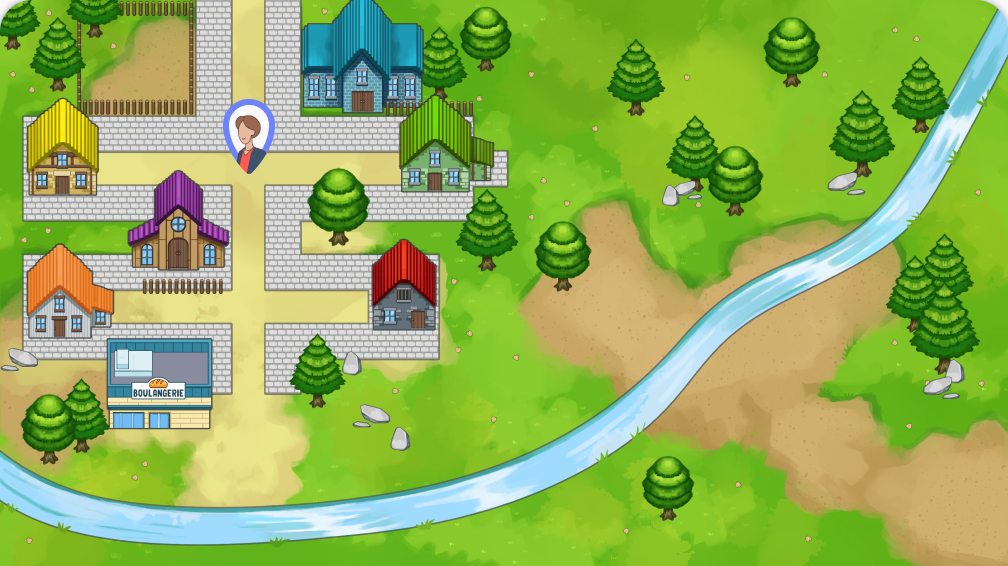
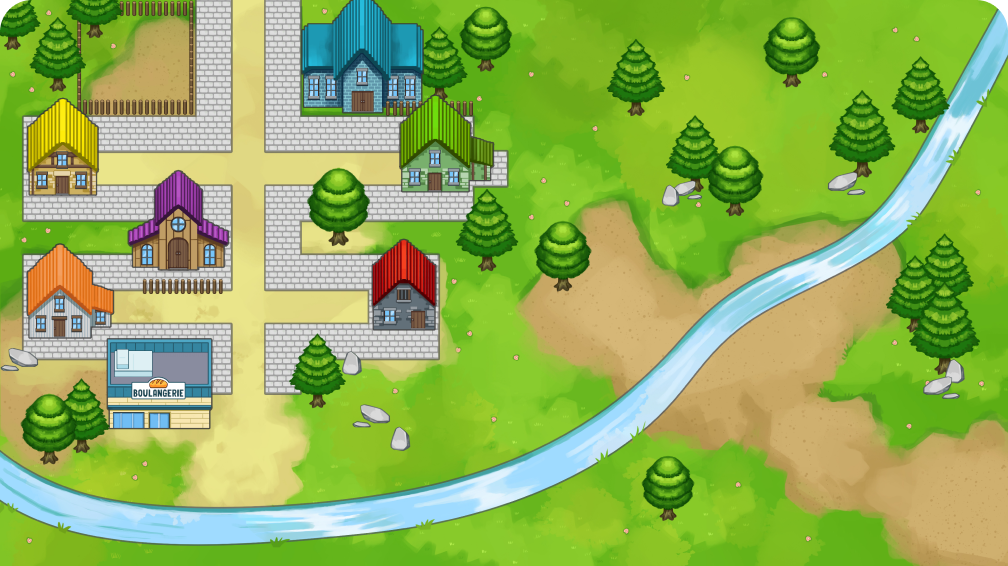
Plan de la ville - Déplacement droite - Animation du personnage Co-authored-by: Marie Leuliette <marie.leuliette@captive.fr>

Changed region(s): [[0.2153, 0.1802, 0.2768, 0.3004], [0.9841, 0.0, 1.0, 0.03], [0.0, 0.0, 0.0308, 0.03]]

diff --git a/tests/situations/plan_de_la_ville/vues/components/deplacement_droite_maison_verte.test.js b/tests/situations/plan_de_la_ville/vues/components/deplacement_droite_maison_verte.test.js
@@ -1,4 +1,4 @@
-import { shallowMount } from '@vue/test-utils';
+import { shallowMount, createLocalVue } from '@vue/test-utils';
 
 import DeplacementDroite from 'plan_de_la_ville/vues/components/deplacement_droite_maison_verte.vue';
 import FlechesClavier from 'commun/vues/components/fleches_clavier';
@@ -7,7 +7,11 @@ describe('La vue Déplacement droite maison verte', function () {
   let wrapper;
 
   beforeEach(function () {
-    wrapper = shallowMount(DeplacementDroite);
+    const localVue = createLocalVue();
+    localVue.prototype.$depotRessources = {
+      personnage: () => { return { src: 'personnage.png' }; }
+    };
+    wrapper = shallowMount(DeplacementDroite, { localVue });
   });
 
   describe('#deplacementValide', function () {
@@ -23,9 +27,25 @@ describe('La vue Déplacement droite maison verte', function () {
     });
   });
 
-  describe('sur ordinateur', function () {
-    it('affiche les touches flèches du clavier', function () {
-      expect(wrapper.findComponent(FlechesClavier).exists()).toBe(true);
+  describe('#deplacePersonnage', function () {
+    it('ajoute la classe deplacement-droite sur le personnage pour le choix déplacement droite', function (done) {
+      expect(wrapper.find('.personnage').classes('deplacement-droite')).toBe(false);
+      wrapper.vm.deplace = true;
+      wrapper.vm.$nextTick(() => {
+        expect(wrapper.find('.personnage').classes('deplacement-droite')).toBe(true);
+        done();
+      });
+    });
+  });
+
+  describe('#vacillePersonnage', function () {
+    it('ajoute la classe mauvais-deplacement sur le personnage pour le choix déplacement gauche', function (done) {
+      expect(wrapper.find('.personnage').classes('mauvais-deplacement')).toBe(false);
+      wrapper.vm.vacille = true;
+      wrapper.vm.$nextTick(() => {
+        expect(wrapper.find('.personnage').classes('mauvais-deplacement')).toBe(true);
+        done();
+      });
     });
   });
 });

diff --git a/src/situations/plan_de_la_ville/infra/depot_ressources_plan_de_la_ville.js b/src/situations/plan_de_la_ville/infra/depot_ressources_plan_de_la_ville.js
@@ -1,6 +1,7 @@
 import DepotRessourcesCommunes from 'commun/infra/depot_ressources_communes';
 import fondSituation from 'plan_de_la_ville/assets/accueil_sans_eglise.png';
 import egliseMaisonAPlacer from 'plan_de_la_ville/assets/eglise_maison_a_placer.png';
+import personnage from 'plan_de_la_ville/assets/personnage.png';
 import modeEmploi from 'plan_de_la_ville/assets/audio_questions/mode_emploi.wav';
 import maisonRouge from 'plan_de_la_ville/assets/audio_questions/maison_rouge.wav';
 import maisonBleue from 'plan_de_la_ville/assets/audio_questions/clic_maison_bleue.wav';
@@ -33,7 +34,7 @@ const messagesAudios = { ...AUDIOS_QUESTIONS, ...AUDIOS_REPONSES };
 export default class DepotRessourcesPlanDeLaVille extends DepotRessourcesCommunes {
   constructor (chargeurs) {
     super(chargeurs, messagesAudios, sonConsigne);
-    this.charge([fondSituation, egliseMaisonAPlacer]);
+    this.charge([fondSituation, egliseMaisonAPlacer, personnage]);
   }
 
   chargeRessourcesQuestions (questions) {
@@ -54,5 +55,9 @@ export default class DepotRessourcesPlanDeLaVille extends DepotRessourcesCommune
 
   fondSituationEntrainement () {
     return this.ressource(fondSituation);
+  }
+
+  personnage () {
+    return this.ressource(personnage);
   }
 }

diff --git a/src/situations/plan_de_la_ville/vues/components/deplacement_droite_maison_verte.vue b/src/situations/plan_de_la_ville/vues/components/deplacement_droite_maison_verte.vue
@@ -1,7 +1,13 @@
 <template>
-  <fleches-clavier
-    @animationDroiteTerminee="deplacementValide"
-  />
+  <div>
+    <img :src="$depotRessources.personnage().src" :class="{ 'deplacement-droite': deplace, 'mauvais-deplacement': vacille  }" class="personnage" />
+    <fleches-clavier
+      @animationDroiteTerminee="deplacementValide"
+      @actionDroite="deplacePersonnage()"
+      @actionGauche="vacillePersonnage()"
+      :dureeAnimation="1000"
+    />
+  </div>
 </template>
 
 <script>
@@ -12,9 +18,25 @@ import FlechesClavier from 'commun/vues/components/fleches_clavier';
 export default {
   components: { FlechesClavier },
 
+  data () {
+    return {
+      deplace: false,
+      vacille: false
+    };
+  },
+
   methods: {
     deplacementValide () {
       this.$emit('action');
+    },
+
+    deplacePersonnage () {
+      this.deplace = true;
+    },
+
+    vacillePersonnage () {
+      this.vacille = true;
+      setTimeout(() => { this.vacille = false; }, 800);
     }
   }
 };

diff --git a/src/situations/plan_de_la_ville/styles/deplacement_droite_maison_verte.scss b/src/situations/plan_de_la_ville/styles/deplacement_droite_maison_verte.scss
@@ -1,6 +1,52 @@
+@keyframes deplacement-droite {
+  0% {
+    transform: translateX(0);
+  }
+  100% {
+    transform: translateX(140px);
+  }
+}
+
+@keyframes mauvais-deplacement {
+  0%,
+  100% {
+    transform: translateX(0%);
+    transform-origin: 50% 50%;
+  }
+  15% {
+    transform: translateX(-30px) rotate(-6deg);
+  }
+  30% {
+    transform: translateX(15px) rotate(6deg);
+  }
+  45% {
+    transform: translateX(-15px) rotate(-3.6deg);
+  }
+  60% {
+    transform: translateX(9px) rotate(2.4deg);
+  }
+  75% {
+    transform: translateX(-6px) rotate(-1.2deg);
+  }
+}
+
 .actions-fleches {
   left: 2.5rem;
   top: 50%;
   transform: translateY(-50%);
   border-radius: 2.25rem;
+}
+
+.personnage {
+  position: absolute;
+  top: 6.5rem;
+  left: 13.875rem;
+}
+
+.deplacement-droite {
+  animation: deplacement-droite 1s steps(8, end) both;
+}
+
+.mauvais-deplacement {
+  animation: mauvais-deplacement 0.8s both;
 }

diff --git a/src/situations/commun/vues/components/fleches_clavier.vue b/src/situations/commun/vues/components/fleches_clavier.vue
@@ -59,6 +59,11 @@ export default {
     animationDroiteTerminee: {
       type: Function,
       required: false
+    },
+    dureeAnimation: {
+      type: Number,
+      required: false,
+      default: 500
     }
   },
 
@@ -67,7 +72,6 @@ export default {
       choixGauche: 'gauche',
       choixDroit: 'droite',
       choixFait: null,
-      dureeAnimation: 500,
       flecheGauche,
       flecheDroite
     };
